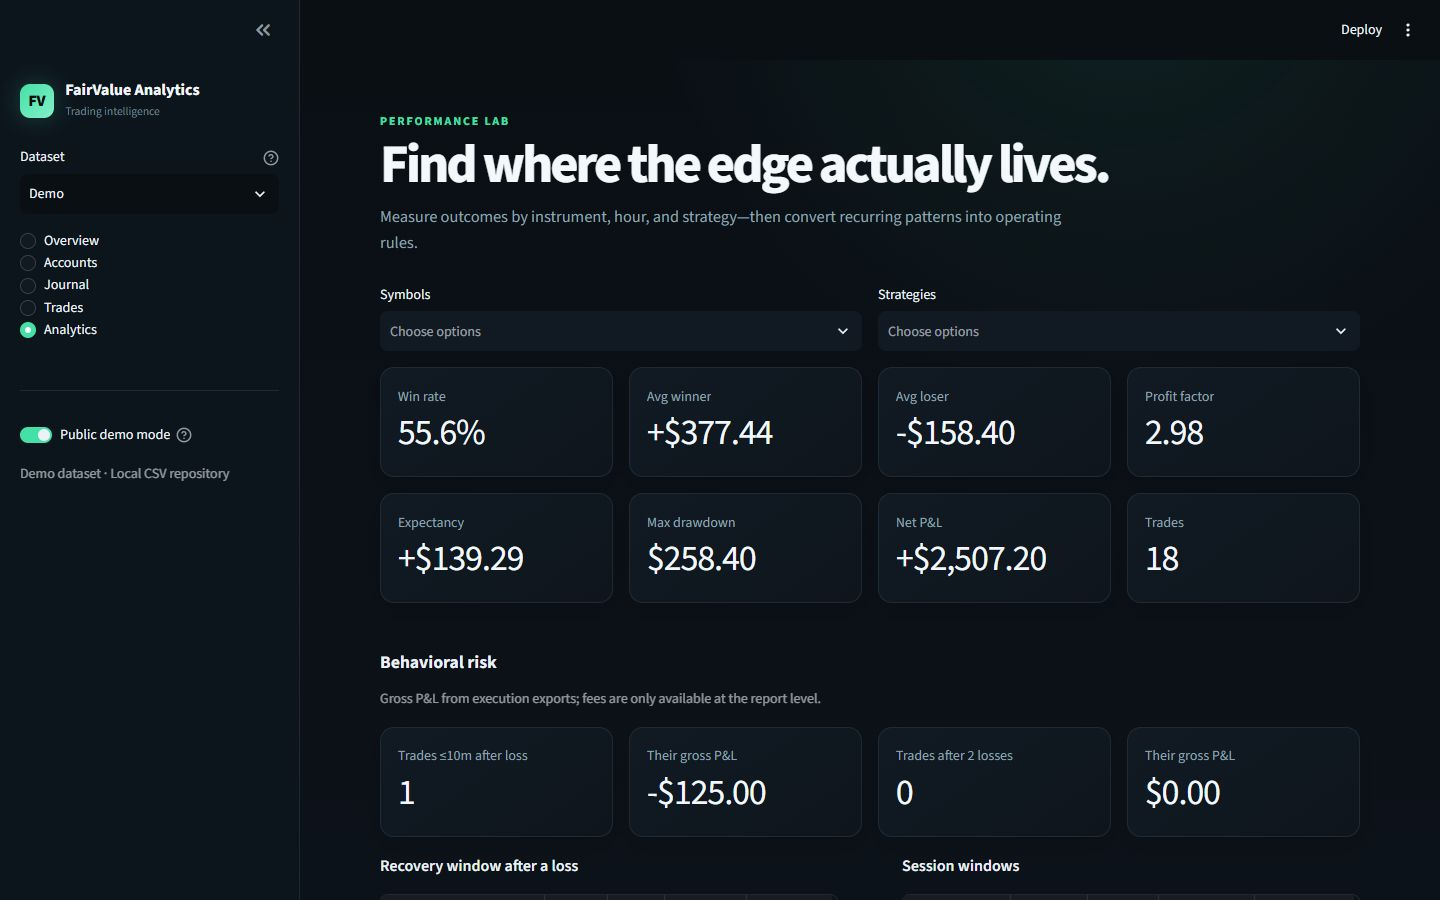
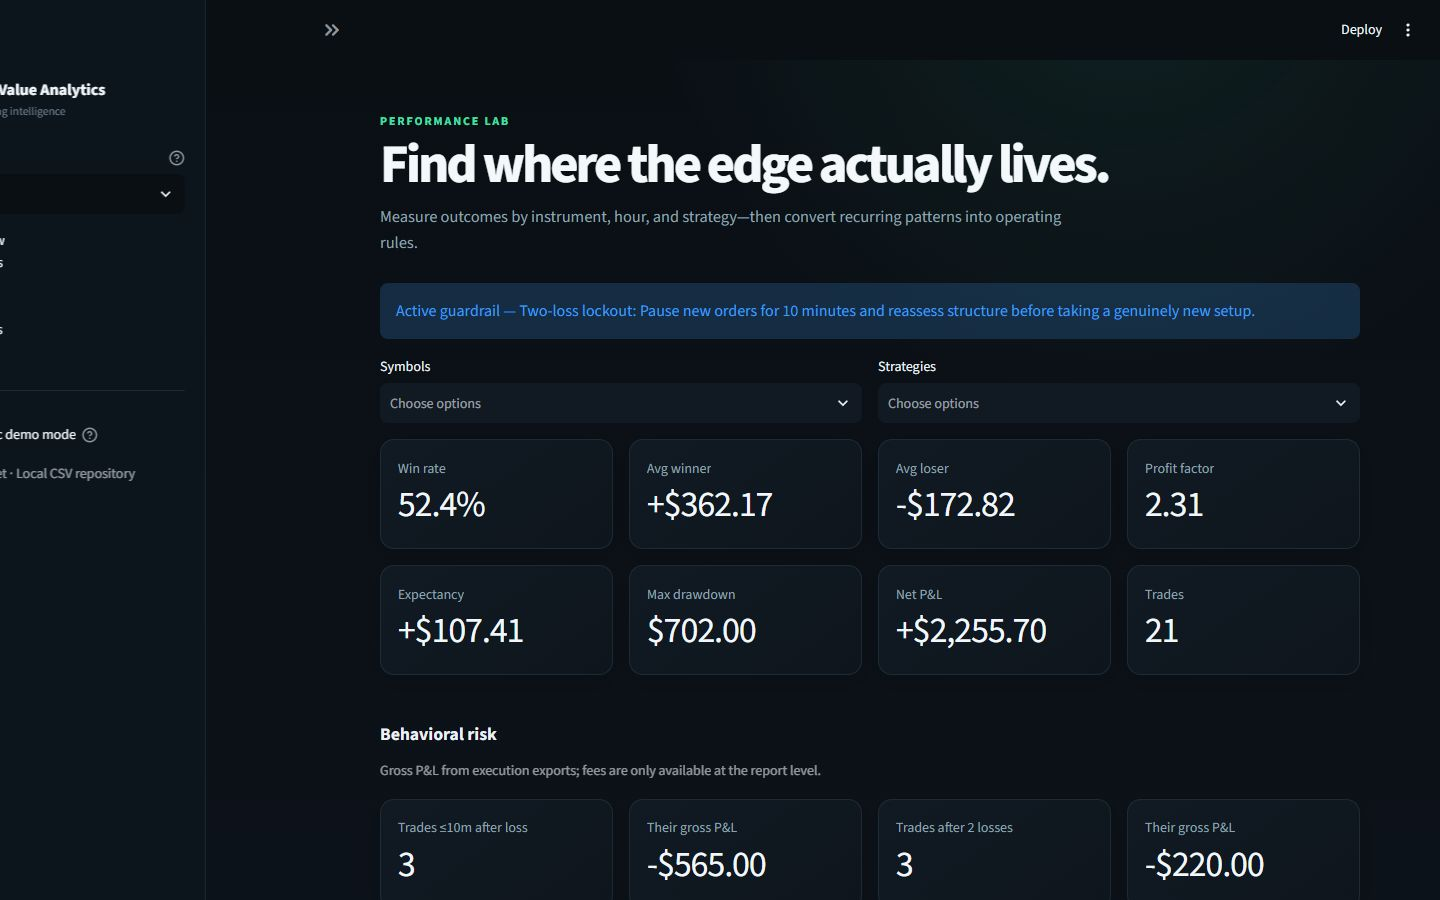
Personalize project story and learning walkthrough

diff --git a/fairvalue/views/dashboard.py b/fairvalue/views/dashboard.py
@@ -27,7 +27,10 @@ def render(repo: DataRepository, demo_mode: bool) -> None:
         "A clear view of prop-firm capital, realized cash performance, and the decisions shaping your edge.",
     )
     if demo_mode:
-        st.info("Demo mode is on. Prop-firm names are anonymized in the interface; stored data is unchanged.")
+        st.info(
+            "This public portfolio view uses synthetic records to demonstrate the analysis "
+            "without exposing personal accounts or performance."
+        )
 
     columns = st.columns(5)
     columns[0].metric("Total spend", f"${metrics.total_spend:,.0f}")

diff --git a/README.md b/README.md
@@ -1,16 +1,24 @@
 # FairValue Analytics
 
-A local-first, AI-ready trading journal and behavioral analytics dashboard built with Python, Streamlit, Pandas, and Plotly.
+A personal trading journal and behavioral analytics dashboard built with Python, Streamlit, Pandas, and Plotly.
 
 ![FairValue Analytics public demo](docs/images/overview.png)
 
-## Data science case study
+## Why I built this
 
-FairValue Analytics turns fragmented account records, cash transactions, trading fills, and qualitative journal notes into a single analytical product. The project demonstrates an end-to-end workflow: data modeling, ETL, deterministic deduplication, exploratory analysis, behavioral feature engineering, interactive visualization, testing, and privacy-aware deployment.
+I have been trading for a while, and one problem kept standing out: I could make it through prop-firm evaluations, but reaching a payout consistently was much harder. I wanted to stop relying only on memory and start asking better questions with data.
+
+FairValue Analytics brings my account history, trading executions, expenses, payouts, and journal lessons into one place. My main question is not simply, "Which setup wins most often?" It is, "What changes in my decision-making after a loss, after passing an evaluation, or when funded-account pressure increases?"
 
 The included portfolio dataset is synthetic and illustrative. Personal trading records, screenshots, source reports, and source-specific import adapters are excluded from version control.
 
-FairValue Analytics keeps the data layer separate from the interface: accounts, cash transactions, journal entries, and normalized trades live in repository-backed tables rather than in Streamlit code. The included V1 uses CSV storage for speed; the same repository contract is designed to accept a Supabase/PostgreSQL adapter later.
+## Where I am in my data journey
+
+I am currently studying the fundamentals of data science and machine learning. This project is how I am connecting those classes to a subject I already know and care about. I am learning how to clean data, create useful features, compare groups, visualize results, question small samples, and turn observations into testable rules.
+
+This was built with AI-assisted development. I defined the problem, supplied and checked the trading context, chose the questions and metrics, and decided whether the results made sense from a trader's perspective. AI helped me turn those decisions into a modular application and explain unfamiliar software concepts as I worked through them.
+
+The code keeps data separate from the interface: accounts, cash transactions, journal entries, and normalized trades live in repository-backed tables rather than inside the Streamlit pages. V1 uses CSV storage because it is easy to inspect while I learn. A future version can use Supabase/PostgreSQL without rewriting the dashboard.
 
 ### Questions the product is designed to answer
 
@@ -18,6 +26,8 @@ FairValue Analytics keeps the data layer separate from the interface: accounts, 
 - Which symbols, strategies, and session windows carry the strongest expectancy?
 - Are evaluation passes converting into funded payouts and positive realized ROI?
 - Which repeated journal lessons should become measurable operating rules?
+
+My current working hypothesis is that the largest problem is not one losing trade by itself. It is the deterioration in patience and selectivity after two consecutive losses. The public demo uses synthetic trades to show how I am testing that idea without publishing my personal results.
 
 ## What V1 includes
 
@@ -35,6 +45,18 @@ FairValue Analytics keeps the data layer separate from the interface: accounts, 
 | ![Grouped account portfolio](docs/images/accounts.png) | ![Behavioral analytics](docs/images/analytics.png) |
 
 The repository ships with illustrative sample data so every screen has useful content on first launch. Private imported data lives separately and is excluded from Git.
+
+## What I understand and can explain
+
+- **Rows and columns:** each account, cash transaction, journal entry, and completed trade becomes a structured record.
+- **Cleaning:** timestamps and currency values need consistent types before they can be compared.
+- **Grouping:** Pandas `groupby` lets me compare symbols, strategies, session windows, and behavioral conditions.
+- **Feature engineering:** `after_two_losses` is a new variable created from the order of previous trade results.
+- **Trading metrics:** win rate alone is incomplete, so the dashboard also measures average wins/losses, expectancy, profit factor, and drawdown.
+- **Cash versus performance:** trading P&L measures execution results; realized cash profit measures payouts minus actual prop-firm spending.
+- **Uncertainty:** a pattern in a small personal sample is a hypothesis to test, not proof that a rule will always work.
+
+The beginner-friendly notebook in [`notebooks/01_behavioral_trading_analysis.ipynb`](notebooks/01_behavioral_trading_analysis.ipynb) rebuilds the main behavioral comparison with basic Pandas operations. [`docs/project_walkthrough.md`](docs/project_walkthrough.md) is the plain-language explanation I use to review the project or prepare for an interview.
 
 ## Run locally
 
@@ -74,7 +96,9 @@ fairvalue/views/               Presentation and edit/add interfaces
 data/demo/                     Public-safe illustrative tables
 data/private/                  Personal data and sources (git-ignored)
 sample_imports/                Completed-trade and fill examples
+notebooks/                     Beginner-friendly Pandas analysis
 docs/supabase_schema.sql       Proposed cloud schema
+docs/project_walkthrough.md    Plain-language project explanation
 tests/                         Analytics, importer, and repository tests
 ```
 
@@ -128,6 +152,14 @@ The proposed SQL is in `docs/supabase_schema.sql`. Before cloud deployment:
 ## Privacy and public demos
 
 Public demo mode anonymizes prop-firm names at render time and does not modify the source tables. It is a presentation aid, not an authentication boundary. The repository includes a separate synthetic Demo dataset for public deployment. Do not deploy a personal local instance without authentication, row-level security, and secret management.
+
+## Limitations
+
+- The public records are synthetic and demonstrate the method rather than my personal profitability.
+- My private dataset represents one trader and is still relatively small.
+- The behavioral comparisons are descriptive; they do not establish cause and effect.
+- Fees are not available at the individual-trade level in every export, so some behavioral views use gross P&L.
+- The two-loss lockout should be evaluated on future trades that were not used to form the original hypothesis.
 
 ## Architecture
 

diff --git a/docs/project_walkthrough.md b/docs/project_walkthrough.md
@@ -1,0 +1,69 @@
+# How I Explain FairValue Analytics
+
+This is my plain-language walkthrough of the project. I use it to check that I understand the work and can explain it without relying on technical buzzwords.
+
+## 1. The problem I care about
+
+I have been trading long enough to notice a frustrating gap: passing an evaluation does not automatically lead to receiving a payout. The rules and pressure change once an account is funded, and my decisions can change after losses.
+
+I built this project to study that gap with evidence instead of memory alone.
+
+## 2. What information goes into the project
+
+The application uses four main types of information:
+
+1. **Accounts** — the prop firm, account size, stage, cost, target, and remaining drawdown.
+2. **Cash activity** — evaluation expenses, fees, and payouts actually received.
+3. **Trades** — symbol, entry and exit times, direction, size, prices, and P&L.
+4. **Journal entries** — what happened, what worked, what went wrong, and the lesson from the session.
+
+These belong in separate tables because they describe different things. A payout is not the same as trading P&L, and a journal observation is not the same as an execution.
+
+## 3. Why the trade importer matters
+
+A broker export can contain several fills for one trading idea. Before analyzing performance, those fills need to be combined into a completed trade where possible. The importer also creates a fingerprint from important trade fields so uploading the same export twice does not create duplicate trades.
+
+In simple terms: clean records go in before trustworthy summaries come out.
+
+## 4. The behavioral question
+
+The main feature I am studying is whether a trade happened after two consecutive losses in the same account.
+
+In Pandas, I can sort trades by time, group them by account, and use `shift()` to look at the previous two results. If both were negative, the next row receives `after_two_losses = True`.
+
+That lets me compare:
+
+- number of trades;
+- win rate;
+- total P&L; and
+- average P&L
+
+for trades after a two-loss streak versus all other trades.
+
+## 5. Turning an observation into a rule
+
+My current intervention is a ten-minute no-order lockout after two consecutive losses. During the pause, the trader must redraw fair value and market structure and decide whether a genuinely new setup exists.
+
+The important data-science idea is that this rule can be evaluated. Future trades can be labeled as occurring before or after the rule was adopted, and their results can be compared.
+
+## 6. What I can and cannot conclude
+
+The analysis can show an association in the available sample. It cannot prove that a loss streak causes the next loss, and it cannot prove the rule will work for another trader.
+
+My sample is personal and relatively small. The strongest next step is to collect new observations and test the rule on data that did not create the original hypothesis.
+
+## 7. How AI assisted me
+
+I supplied the trading problem, the journal context, the metrics that mattered, and the decisions about whether the output made sense. AI accelerated coding, application structure, testing, and documentation.
+
+I describe this as an AI-assisted project because I did not write every component independently. My goal is to understand the analysis, use the application responsibly, and gradually become able to implement more of the workflow myself.
+
+## 8. What I am learning next
+
+- Exploratory data analysis with Pandas
+- Better visual comparisons and distributions
+- Train/test thinking and avoiding conclusions from the same data that created a rule
+- Measuring results in risk units, not only dollars
+- Confidence intervals and uncertainty for small samples
+- PostgreSQL/Supabase for persistent cloud storage
+
